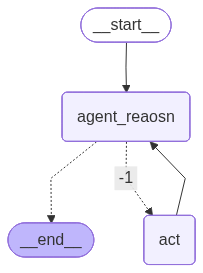
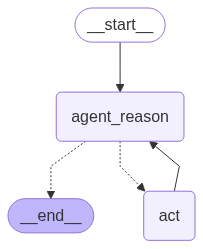
final working code

Changed region(s): [[0.266, 0.0, 0.9754, 0.9839], [0.0296, 0.6185, 0.4729, 0.9558], [0.7685, 0.8434, 0.8867, 0.8996]]

diff --git a/main.py b/main.py
@@ -1,27 +1,38 @@
 from dotenv import load_dotenv
+
 from langchain_core.messages import HumanMessage
-from langgraph.constants import START, END
-from langgraph.graph import MessagesState,StateGraph
-from nodes import run_agent_reasoning,tool_node
+from langgraph.graph import MessagesState, StateGraph,END
+
+from nodes import run_agent_reasoning, tool_node
+
 load_dotenv()
 
-AGENT_REASON="agent_reaosn"
-ACT="act"
-LAST=-1
+AGENT_REASON="agent_reason"
+ACT= "act"
+LAST = -1
 
-def should_continue(state:MessagesState)->str:
+
+def should_continue(state: MessagesState) -> str:
     if not state["messages"][LAST].tool_calls:
         return END
     return ACT
 
-flow=StateGraph(MessagesState)
-flow.add_node(AGENT_REASON,run_agent_reasoning)
+flow = StateGraph(MessagesState)
+
+flow.add_node(AGENT_REASON, run_agent_reasoning)
 flow.set_entry_point(AGENT_REASON)
-flow.add_node(ACT,tool_node)
-flow.add_conditional_edges(AGENT_REASON,should_continue,{END:END,LAST:ACT})
-flow.add_edge(ACT,AGENT_REASON)
-app=flow.compile()
+flow.add_node(ACT, tool_node)
+
+flow.add_conditional_edges(AGENT_REASON, should_continue, {
+    END:END,
+    ACT:ACT})
+
+flow.add_edge(ACT, AGENT_REASON)
+
+app = flow.compile()
 app.get_graph().draw_mermaid_png(output_file_path="flow.png")
 
-if __name__=="__main__":
-    print("Hello ReAct Langgraph with function calling")
+if __name__ == "__main__":
+    print("Hello ReAct LangGraph with Function Calling")
+    res = app.invoke({"messages": [HumanMessage(content="What is the temperature in Tokyo? List it and then triple it")]})
+    print(res["messages"][LAST].content)

diff --git a/nodes.py b/nodes.py
@@ -1,19 +1,20 @@
 from dotenv import load_dotenv
 from langgraph.graph import MessagesState
-from langgraph.prebuilt import ToolNode, create_react_agent
+from langgraph.prebuilt import ToolNode
 
-from react import llm,tools
+from react import llm, tools
 
 load_dotenv()
 
-SYSTEM_MESSAGE='''
-You are an helpful assistant that can use tools to answer questions.
-'''
+SYSYEM_MESSAGE="""
+You are a helpful assistant that can use tools to answer questions.
+"""
 
-def run_agent_reasoning(state:MessagesState)->MessagesState:
-    '''
-    Run the agent reasoning node
-    '''
-    response=llm.invoke([{"role":"system","content":SYSTEM_MESSAGE},*state["messages"]])
-    return {"messages":[response]}
-tool_node=ToolNode(tools)
+def run_agent_reasoning(state: MessagesState) -> MessagesState:
+    """
+    Run the agent reasoning node.
+    """
+    response = llm.invoke([{"role": "system", "content": SYSYEM_MESSAGE}, *state["messages"]])
+    return {"messages": [response]}
+
+tool_node = ToolNode(tools)

diff --git a/react.py b/react.py
@@ -1,20 +1,19 @@
 from dotenv import load_dotenv
 from langchain_core.tools import tool
-from langchain_google_genai import ChatGoogleGenerativeAI
+from langchain_openai import ChatOpenAI
 from langchain_tavily import TavilySearch
-
+from langchain_google_genai import ChatGoogleGenerativeAI
 load_dotenv()
 
 @tool
-def triple(num:float)->float:
-    '''
+def triple(num:float) -> float:
+    """
+    param num: a number to triple
+    returns: the triple of the input number
+    """
+    return float(num) * 3
 
-    :param num: a number to triple
-    :return:the triple of the input parameter
-    '''
+tools = [TavilySearch(max_results=1), triple]
 
-    return float(num)*3
-
-tools=[TavilySearch(max_result=1),triple]
-llm=ChatGoogleGenerativeAI(model="gemini-2.0-flash", temperature=0).bind_tools(tools)
-    
+#llm = ChatOpenAI(model="gpt-4o-mini", temperature=0).bind_tools(tools)
+llm = ChatGoogleGenerativeAI(model="models/gemini-2.5-flash", temperature=0).bind_tools(tools)
